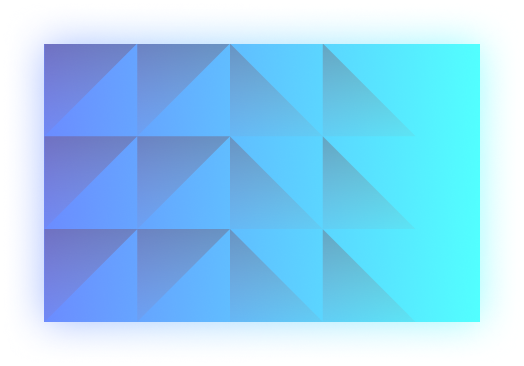
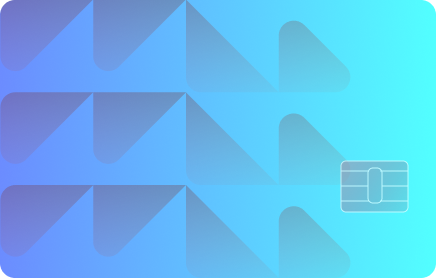
hehe

diff --git a/MarioRichieLim_67355/Screens/Home.Screen.tsx b/MarioRichieLim_67355/Screens/Home.Screen.tsx
@@ -3,9 +3,9 @@ import { View, Text, StyleSheet, TouchableOpacity, Image, ScrollView } from 'rea
 import home_styles from '../Styles/Home.style';
 import CustomText from '../Components/CustomText';
 import { ImageBackground } from 'react-native';
-import { Ionicons, FontAwesome } from '@expo/vector-icons';
+import { Ionicons, FontAwesome, FontAwesome5 } from '@expo/vector-icons';
 
-const HomeScreen = () => {
+const HomeScreen = ({ navigation }) => {
   return (
     <View style={home_styles.container}>
       <View style={home_styles.flexTop}>
@@ -28,19 +28,12 @@ const HomeScreen = () => {
           style={home_styles.cardBackground}
           imageStyle={{ borderRadius: 15 }}
         >
-          <View style={home_styles.cardContent}>
-            <Image
-              source={require('../Assets/Chip.png')}
-              style={home_styles.cardChip}
-            />
-            <CustomText style={home_styles.cardCurrency}>Rp 1.000.000</CustomText>
-            <CustomText style={home_styles.cardLabel}>Total Balance</CustomText>
-          </View>
+          <CustomText style={home_styles.cardCurrency}>Rp 1.000.000</CustomText>
+          <CustomText style={home_styles.cardLabel}>Total Balance</CustomText>
         </ImageBackground>
       </View>
 
       <View>
-        {/* <CustomText style={{ fontSize: 24, fontFamily: 'Lato-Black ' }}>Quick Action</CustomText> */}
         <View style={home_styles.quickActionContainer}>
           <TouchableOpacity style={home_styles.quickActionButton}>
             <Ionicons name="arrow-up-outline" size={24} color="#2566a5" />
@@ -58,19 +51,28 @@ const HomeScreen = () => {
       </View>
 
       <View>
-        <CustomText style={{ fontSize: 24, fontFamily: 'Lato-Black ' }}>Categories</CustomText>
+        <CustomText style={{ fontSize: 24, fontFamily: 'Lato-Black' }}>Categories</CustomText>
         <View style={home_styles.quickActionContainer}>
-          <TouchableOpacity style={home_styles.quickActionButton}>
-            <Ionicons name="arrow-up-outline" size={24} color="#2566a5" />
-            <CustomText style={home_styles.quickActionText}>Transfer</CustomText>
+          <TouchableOpacity
+            style={home_styles.quickActionButton}
+            onPress={() => navigation.navigate('Pulsa')}
+          >
+            <Ionicons name="phone-portrait-outline" size={24} color="#2566a5" />
+            <CustomText style={home_styles.quickActionText}>Pulsa/Data</CustomText>
           </TouchableOpacity>
-          <TouchableOpacity style={home_styles.quickActionButton}>
-            <Ionicons name="arrow-down-outline" size={24} color="#2566a5" />
-            <CustomText style={home_styles.quickActionText}>Tarik Tunai</CustomText>
+          <TouchableOpacity
+            style={home_styles.quickActionButton}
+            onPress={() => navigation.navigate('PLN')}
+          >
+            <Ionicons name="flash-outline" size={24} color="#2566a5" />
+            <CustomText style={home_styles.quickActionText}>Listrik</CustomText>
           </TouchableOpacity>
-          <TouchableOpacity style={home_styles.quickActionButton}>
-            <FontAwesome name="ellipsis-h" size={24} color="#2566a5" />
-            <CustomText style={home_styles.quickActionText}>More</CustomText>
+          <TouchableOpacity
+            style={home_styles.quickActionButton}
+            onPress={() => navigation.navigate('BPJS')}
+          >
+            <FontAwesome5 name="shield-alt" size={24} color="#2566a5" />
+            <CustomText style={home_styles.quickActionText}>BPJS</CustomText>
           </TouchableOpacity>
         </View>
       </View>

diff --git a/MarioRichieLim_67355/Styles/Home.style.js b/MarioRichieLim_67355/Styles/Home.style.js
@@ -1,3 +1,5 @@
+import { StyleSheet } from 'react-native';
+
 const home_styles = StyleSheet.create({
     container: {
         flex: 1,
@@ -38,40 +40,26 @@ const home_styles = StyleSheet.create({
 
     // Visa Card Styles
     cardContainer: {
-        marginTop: 20,
+        marginTop: 10,
         borderRadius: 15,
-        overflow: 'hidden',
     },
     cardBackground: {
-        width: '100%',
+        width: 365,
         height: 200,
-        justifyContent: 'space-between',
-        padding: 16,
-    },
-    cardContent: {
-        flex: 1,
-        justifyContent: 'space-between',
-    },
-    cardChip: {
-        width: 40,
-        height: 40,
-        position: 'absolute',
-        top: 16,
-        right: 16,
     },
     cardCurrency: {
         fontSize: 24,
         fontFamily: 'Lato-Black',
         color: '#FFFFFF',
         position: 'absolute',
-        bottom: 30,
+        bottom: 40,
         left: 16,
     },
     cardLabel: {
         fontSize: 14,
         color: '#FFFFFF',
         position: 'absolute',
-        bottom: 10,
+        bottom: 20,
         left: 16,
     },
 
@@ -80,18 +68,15 @@ const home_styles = StyleSheet.create({
     quickActionContainer: {
         flexDirection: 'row',
         justifyContent: 'space-between',
-        backgroundColor: '#F1F3F4',
-        padding: 16,
         borderRadius: 15,
-        marginTop: 20,
+        marginVertical: 20,
     },
     quickActionButton: {
         alignItems: 'center',
         justifyContent: 'center',
         backgroundColor: '#FFFFFF',
         borderRadius: 12,
-        paddingVertical: 10,
-        paddingHorizontal: 20,
+        padding: 16,
         width: '30%', 
         shadowColor: '#000',
         shadowOffset: { width: 0, height: 2 },

diff --git a/MarioRichieLim_67355/Screens/Transaction/Pulsa.Screen.tsx b/MarioRichieLim_67355/Screens/Transaction/Pulsa.Screen.tsx
@@ -2,6 +2,7 @@ import React, { useState } from 'react';
 import { View, TextInput, TouchableOpacity, Image, FlatList } from 'react-native';
 import pulsa_styles from '../../Styles/Transaction/Pulsa.style';
 import CustomText from '../../Components/CustomText';
+import Icon from 'react-native-vector-icons/MaterialIcons';
 
 const PulsaScreen = ({ navigation }) => {
     const [phoneNumber, setPhoneNumber] = useState('');
@@ -83,7 +84,8 @@ const PulsaScreen = ({ navigation }) => {
                     />
                     {phoneNumber.length > 0 && (
                         <TouchableOpacity onPress={() => setPhoneNumber('')}>
-                            <Image source={require('../../Assets/ClearIcon.png')} style={pulsa_styles.inputIcon} />
+                            {/* <Image source={require('../../Assets/ClearIcon.png')} style={pulsa_styles.inputIcon} /> */}
+                            <Icon name="close" size={24} style={pulsa_styles.inputIcon} />
                         </TouchableOpacity>
                     )}
                 </View>
@@ -125,7 +127,8 @@ const PulsaScreen = ({ navigation }) => {
                 />
             ) : (
                 <View style={pulsa_styles.messageContainer}>
-                    <Image source={require('../../Assets/InfoIcon.png')} style={pulsa_styles.messageIcon} />
+                    {/* <Image source={require('../../Assets/InfoIcon.png')} style={pulsa_styles.messageIcon} /> */}
+                    <Icon name="info" size={24} style={pulsa_styles.messageIcon} />
                     <CustomText style={pulsa_styles.messageText}>
                         Isi nomor ponsel yang valid untuk menampilkan menu pembelian.
                     </CustomText>

diff --git a/MarioRichieLim_67355/App.js b/MarioRichieLim_67355/App.js
@@ -1,12 +1,16 @@
+import 'react-native-gesture-handler';
 import * as React from 'react';
-import * as Font from 'expo-font';
+import { useState, useEffect } from 'react';
 import { StatusBar } from 'react-native';
 import { NavigationContainer } from '@react-navigation/native';
 import { createNativeStackNavigator } from '@react-navigation/native-stack';
+import * as Font from 'expo-font';
+
 import SplashScreen from './Screens/Splash.Screen';
 import BottomTabs from './Components/BottomTabs';
-import 'react-native-gesture-handler';
-import { useState, useEffect } from 'react';
+import BPJSScreen from './Screens/Transaction/BPJS.Screen';
+import PLNScreen from './Screens/Transaction/PLN.Screen';
+import PulsaScreen from './Screens/Transaction/Pulsa.Screen';
 
 const Stack = createNativeStackNavigator();
 
@@ -51,6 +55,21 @@ export default function App() {
           component={BottomTabs}
           options={{ headerShown: false }}
           style={{ backgroundColor: '#FFFFFF' }}
+        />
+        <Stack.Screen
+          name="Pulsa"
+          component={PulsaScreen}
+          options={{ title: 'Pulsa/Data' }}
+        />
+        <Stack.Screen
+          name="PLN"
+          component={PLNScreen}
+          options={{ title: 'Listrik' }}
+        />
+        <Stack.Screen
+          name="BPJS"
+          component={BPJSScreen}
+          options={{ title: 'BPJS' }}
         />
       </Stack.Navigator>
     </NavigationContainer>

diff --git a/MarioRichieLim_67355/Components/BottomTabs.js b/MarioRichieLim_67355/Components/BottomTabs.js
@@ -37,9 +37,6 @@ function BottomTabs() {
                     paddingBottom: 5,
                     paddingTop: 5,
                 },
-                tabBarLabelStyle: ({ focused }) => ({
-                    fontWeight: focused ? 'bold' : 'normal',
-                }),
                 tabBarIcon: ({ focused }) => {
                     let icon;
 
